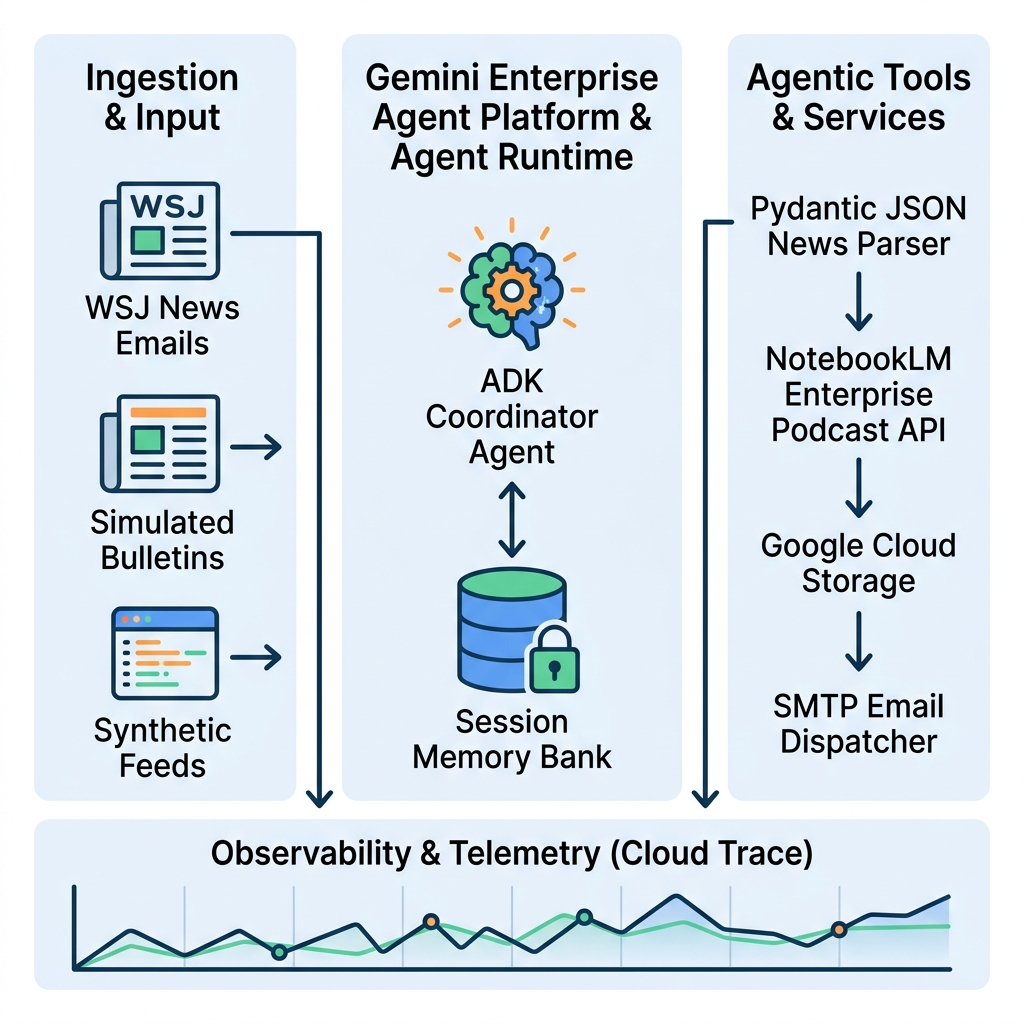
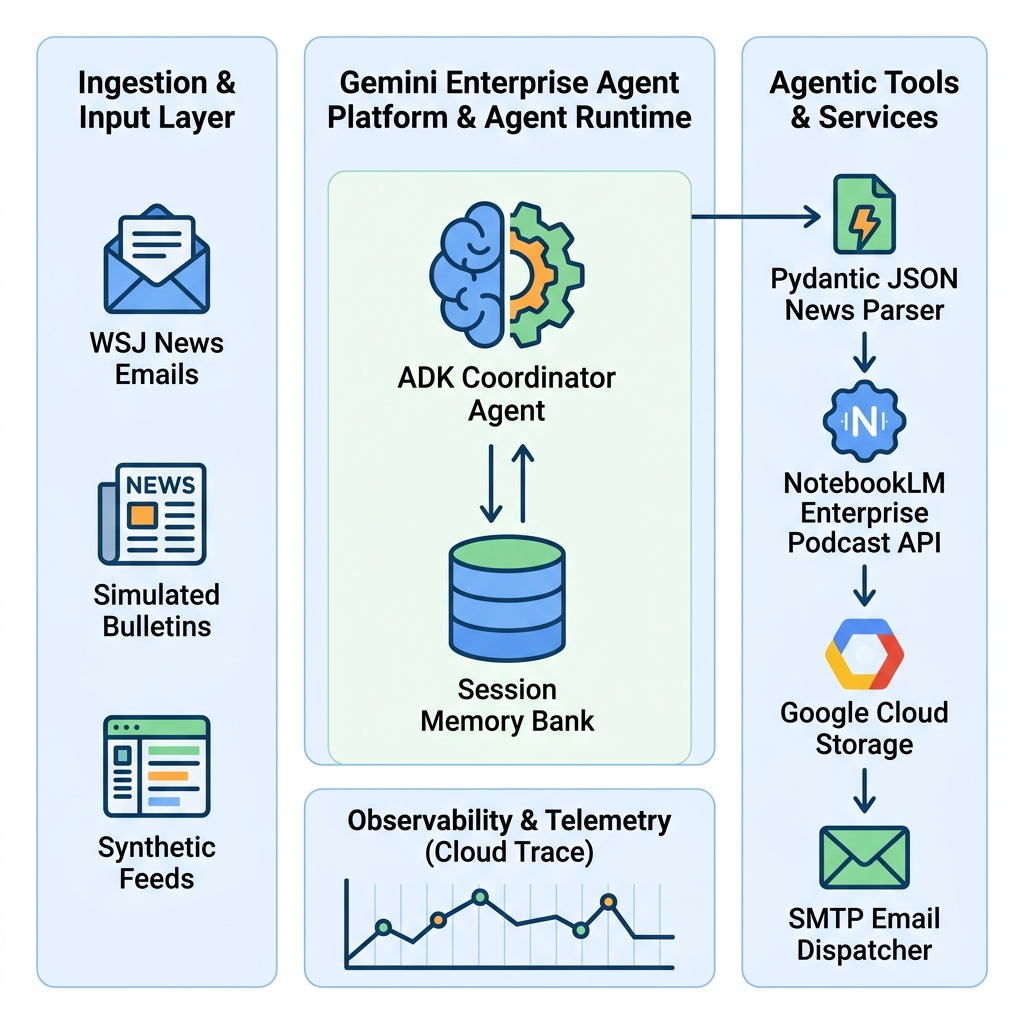
Refactor: Overhaul system architecture diagram layout and explicitly include the Editorial Assistant prompt in README.md

Changed region(s): [[0.0312, 0.0312, 0.9688, 0.9688], [0.9375, 0.7812, 0.9688, 0.8125]]

diff --git a/README.md b/README.md
@@ -14,7 +14,9 @@ This diagram outlines the end-to-end flow from ingestion to secure delivery, ill
 
 ### End-to-End Operational Flow
 1. **Ingestion**: The agent triggers the `ingest_recent_wsj_emails` tool to retrieve the 5 most recent front-page news items. By default, this leverages our high-fidelity simulated news generator powered by the latest Gemini GA model.
-2. **Extraction & Cleaning**: The `parse_clean_journalistic_text` tool invokes the latest Gemini GA model to strip all advertising, email signatures, and headers, leaving strictly core journalistic prose structured as a conversational podcast script.
+2. **Extraction & Cleaning**: The `parse_clean_journalistic_text` tool invokes the latest Gemini GA model using the strict system prompt:
+   > *"You are an editorial assistant. Here are 5 emails containing Wall Street Journal articles. Strip out all email formatting, disclaimers, and metadata. Extract only the core journalistic text."*
+   This converts the raw content into a structured JSON brief featuring the clean conversational script.
 3. **Audio Generation**: The agent calls the Google Podcast API (`discoveryengine.googleapis.com`) to synthesize a professional, studio-quality conversational MP3 briefing.
 4. **Staging & Signing**: The MP3 binary is uploaded to your configured GCS bucket. The GCS client generates an HMAC-SHA256 time-bounded Signed URL (valid for 7 days) that securely bypasses GCS ACL restrictions.
 5. **Dispatch**: A rich HTML email is sent to the subscriber containing the secure signed URL for immediate streaming.